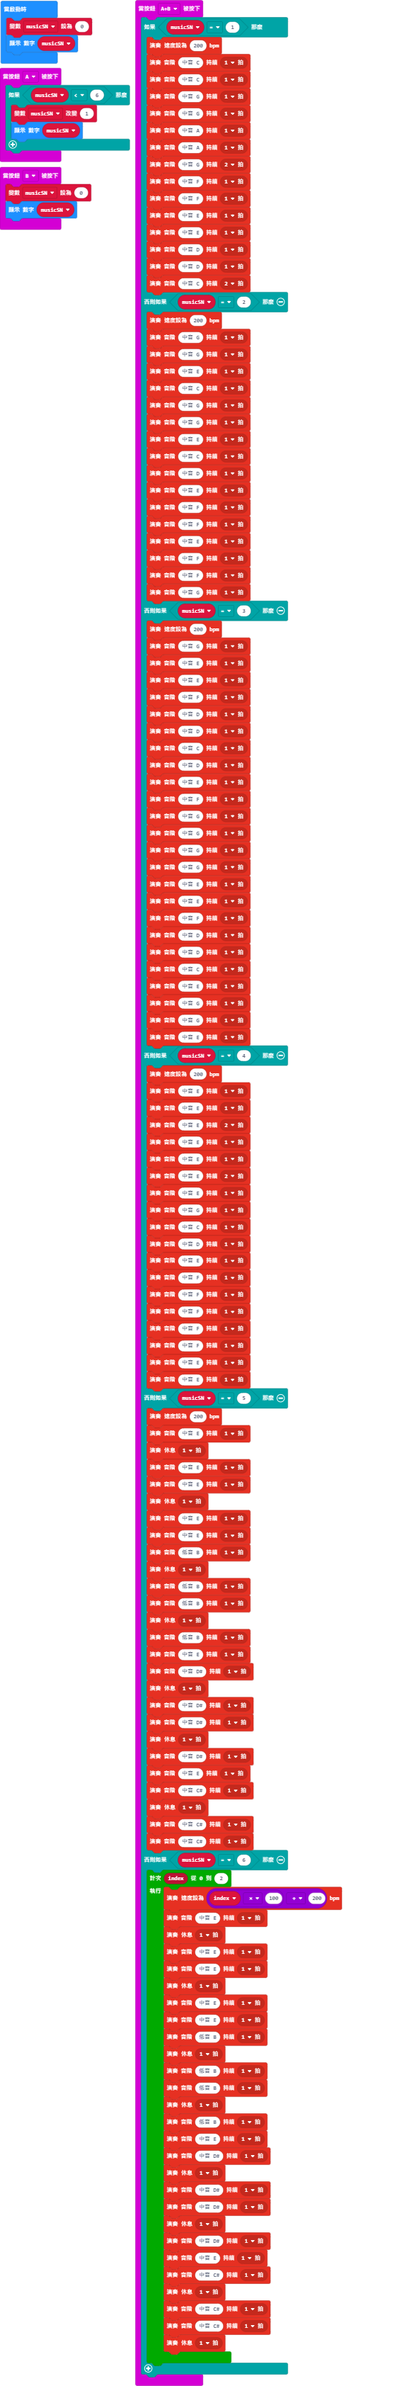
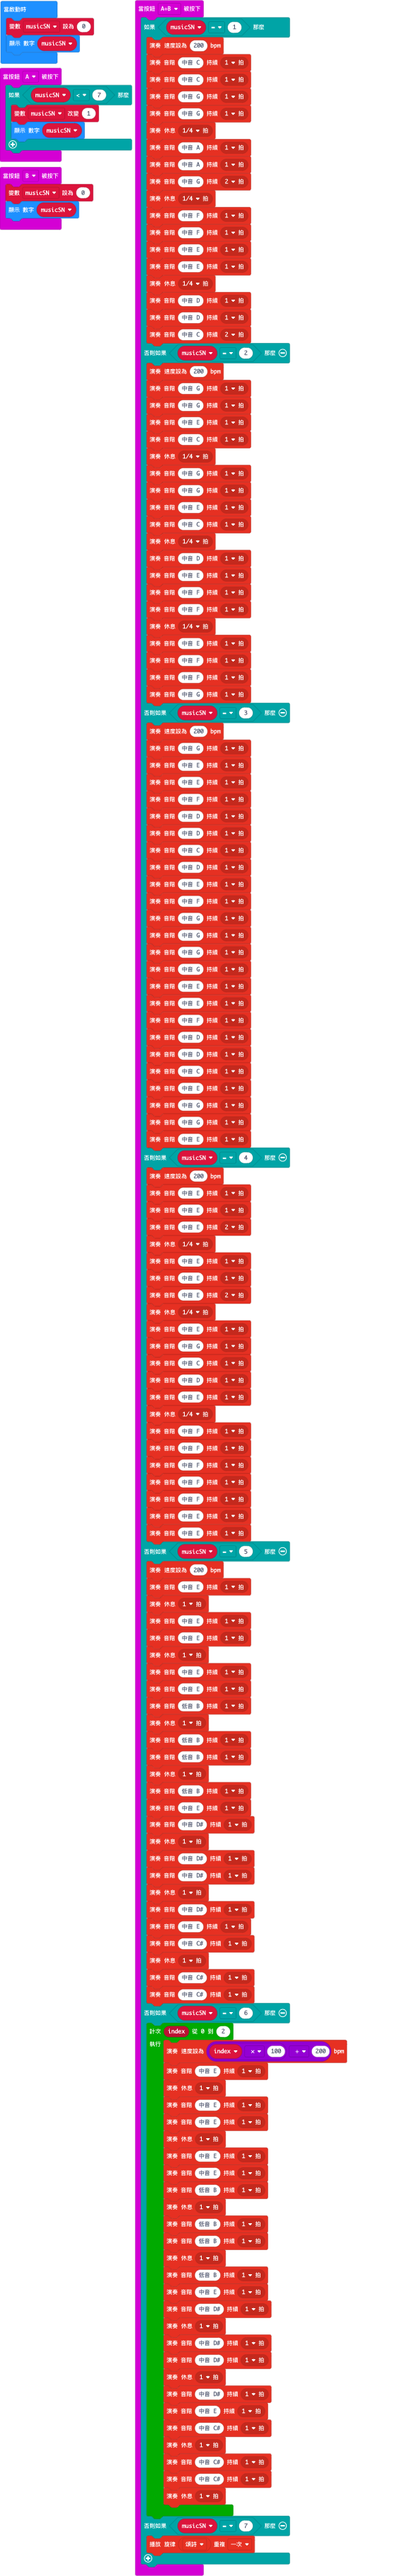
Update feature

Changed region(s): [[0.0, 0.0, 0.8485, 1.0], [0.697, 0.0, 0.7273, 0.0312]]

diff --git a/main.ts b/main.ts
@@ -1,5 +1,5 @@
 input.onButtonPressed(Button.A, function () {
-    if (musicSN < 6) {
+    if (musicSN < 7) {
         musicSN += 1
         basic.showNumber(musicSN)
     }
@@ -11,13 +11,16 @@ input.onButtonPressed(Button.AB, function () {
         music.playTone(262, music.beat(BeatFraction.Whole))
         music.playTone(392, music.beat(BeatFraction.Whole))
         music.playTone(392, music.beat(BeatFraction.Whole))
+        music.rest(music.beat(BeatFraction.Quarter))
         music.playTone(440, music.beat(BeatFraction.Whole))
         music.playTone(440, music.beat(BeatFraction.Whole))
         music.playTone(392, music.beat(BeatFraction.Double))
+        music.rest(music.beat(BeatFraction.Quarter))
         music.playTone(349, music.beat(BeatFraction.Whole))
         music.playTone(349, music.beat(BeatFraction.Whole))
         music.playTone(330, music.beat(BeatFraction.Whole))
         music.playTone(330, music.beat(BeatFraction.Whole))
+        music.rest(music.beat(BeatFraction.Quarter))
         music.playTone(294, music.beat(BeatFraction.Whole))
         music.playTone(294, music.beat(BeatFraction.Whole))
         music.playTone(262, music.beat(BeatFraction.Double))
@@ -27,14 +30,17 @@ input.onButtonPressed(Button.AB, function () {
         music.playTone(392, music.beat(BeatFraction.Whole))
         music.playTone(330, music.beat(BeatFraction.Whole))
         music.playTone(262, music.beat(BeatFraction.Whole))
+        music.rest(music.beat(BeatFraction.Quarter))
         music.playTone(392, music.beat(BeatFraction.Whole))
         music.playTone(392, music.beat(BeatFraction.Whole))
         music.playTone(330, music.beat(BeatFraction.Whole))
         music.playTone(262, music.beat(BeatFraction.Whole))
+        music.rest(music.beat(BeatFraction.Quarter))
         music.playTone(294, music.beat(BeatFraction.Whole))
         music.playTone(330, music.beat(BeatFraction.Whole))
         music.playTone(349, music.beat(BeatFraction.Whole))
         music.playTone(349, music.beat(BeatFraction.Whole))
+        music.rest(music.beat(BeatFraction.Quarter))
         music.playTone(330, music.beat(BeatFraction.Whole))
         music.playTone(349, music.beat(BeatFraction.Whole))
         music.playTone(349, music.beat(BeatFraction.Whole))
@@ -70,14 +76,17 @@ input.onButtonPressed(Button.AB, function () {
         music.playTone(330, music.beat(BeatFraction.Whole))
         music.playTone(330, music.beat(BeatFraction.Whole))
         music.playTone(330, music.beat(BeatFraction.Double))
+        music.rest(music.beat(BeatFraction.Quarter))
         music.playTone(330, music.beat(BeatFraction.Whole))
         music.playTone(330, music.beat(BeatFraction.Whole))
         music.playTone(330, music.beat(BeatFraction.Double))
+        music.rest(music.beat(BeatFraction.Quarter))
         music.playTone(330, music.beat(BeatFraction.Whole))
         music.playTone(392, music.beat(BeatFraction.Whole))
         music.playTone(262, music.beat(BeatFraction.Whole))
         music.playTone(294, music.beat(BeatFraction.Whole))
         music.playTone(330, music.beat(BeatFraction.Whole))
+        music.rest(music.beat(BeatFraction.Quarter))
         music.playTone(349, music.beat(BeatFraction.Whole))
         music.playTone(349, music.beat(BeatFraction.Whole))
         music.playTone(349, music.beat(BeatFraction.Whole))
@@ -142,6 +151,8 @@ input.onButtonPressed(Button.AB, function () {
             music.playTone(277, music.beat(BeatFraction.Whole))
             music.rest(music.beat(BeatFraction.Whole))
         }
+    } else if (musicSN == 7) {
+        music.startMelody(music.builtInMelody(Melodies.Ode), MelodyOptions.Once)
     }
 })
 input.onButtonPressed(Button.B, function () {
